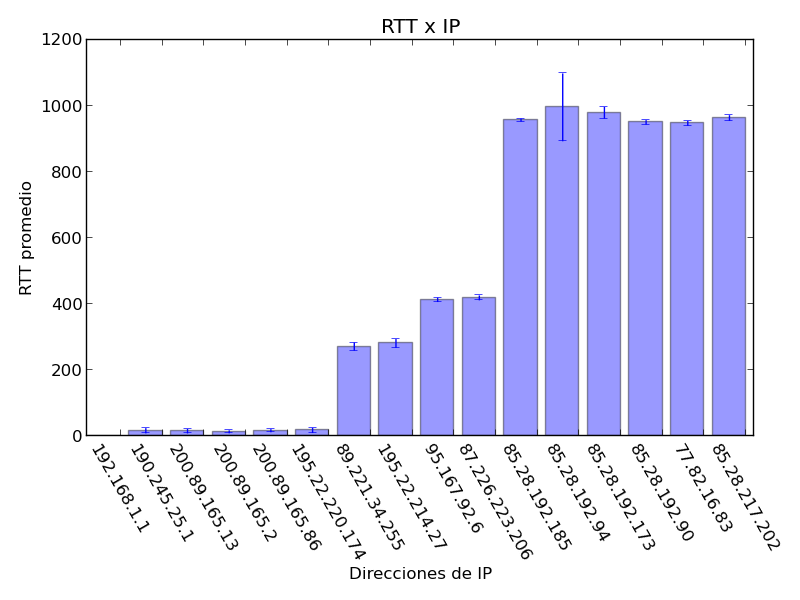
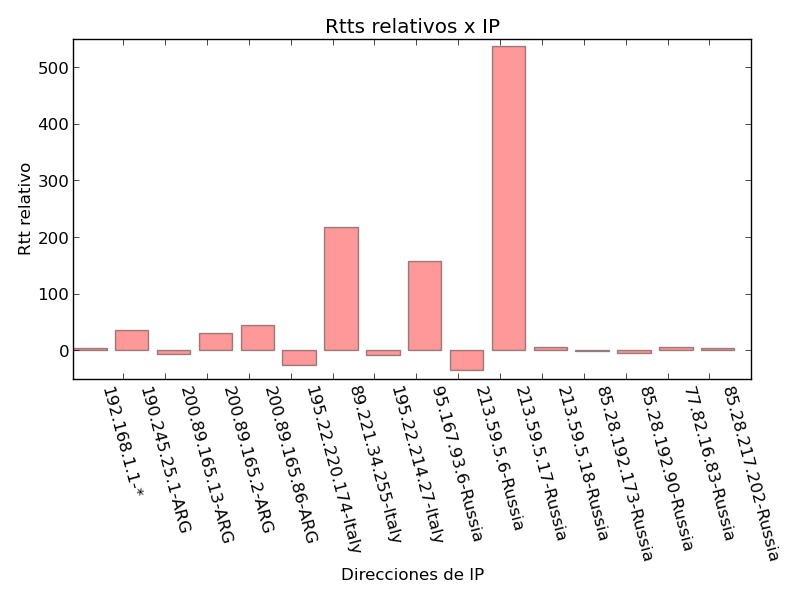
varios cambios

Changed region(s): [[0.0, 0.03, 0.9688, 0.99], [0.0, 0.45, 0.0312, 0.48]]

diff --git a/informe/resultados.tex b/informe/resultados.tex
@@ -1,59 +1,60 @@
 %http://www.tablesgenerator.com/latex_tables
 
-Para el análisis de las rutas nos centraremos principalmente en el RTT y ZRTT de cada Gateway atravesado. Es importante mencionar que no todos los Gateways emiten una respuesta a los paquetes ICMP emitidos ya que algunos podrían no tener implementada esa funcionalidad. Por esta razón se verá más adelante que los TTL presentados en las tablas no crecen de a uno.
+%Para el análisis de las rutas nos centraremos principalmente en el RTT y ZRTT de cada Gateway atravesado. Es importante mencionar que no todos los Gateways emiten una respuesta a los paquetes ICMP emitidos ya que algunos podrían no tener implementada esa funcionalidad. Por esta razón se verá más adelante que los TTL presentados en las tablas no crecen de a uno.
 
-Para calcular el RTT de cada Gateway envíamos numerosos paquetes al mismo para obtener un promedio. Determinamos que envíar 20 paquetes por cada salto era suficiente. También se calculó el desvío estandar:
-\newline
-\newline
-$RTT=\frac{\sum_{i=1}^{20}{RTT_i}}{20}$
-\newline
-$\sigma = \frac{\sum_{i=1}^{20}{(RTT_i-RTT)^2}}{20}$
-\newline
+%Para calcular el RTT de cada Gateway envíamos numerosos paquetes al mismo para obtener un promedio. Determinamos que envíar 20 paquetes por cada salto era suficiente. También se calculó el desvío estandar:
+%\newline
+%\newline
+%$RTT=\frac{\sum_{i=1}^{20}{RTT_i}}{20}$
+%\newline
+%$\sigma = \frac{\sum_{i=1}^{20}{(RTT_i-RTT)^2}}{20}$
+%\newline
 
-Además del RTT se obtuvo el ZRTT para cada Gateway. Este valor nos permite analizar si un determinado Gateway tiene un RTT mayor o menor a la media con respecto a la ruta global, dependiendo de si el ZRTT es positivo o negativo. Por lo tanto es una muy buena herramienta para analizar si se trata de un enlace submarino. Fue calculado de la siguiente manera:
-\newline
-\newline
-$ZRTT_i = \frac{RTT_i-\overline{RTT}}{SRTT}$
-en donde $RTT_i$ es el $RTT$ promedio calculado para cada salto, $\overline{RTT}$ es el $RTT$ promedio de la ruta global y $SRTT$ es el desvío estándar de la ruta global.
-\newline
+%Además del RTT se obtuvo el ZRTT para cada Gateway. Este valor nos permite analizar si un determinado Gateway tiene un RTT mayor o menor a la media con respecto a la ruta global, dependiendo de si el ZRTT es positivo o negativo. Por lo tanto es una muy buena herramienta para analizar si se trata de un enlace submarino. Fue calculado de la siguiente manera:
+%\newline
+%\newline
+%$ZRTT_i = \frac{RTT_i-\overline{RTT}}{SRTT}$
+%en donde $RTT_i$ es el $RTT$ promedio calculado para cada salto, $\overline{RTT}$ es el $RTT$ promedio de la ruta global y $SRTT$ es el desvío estándar de la ruta global.
+%\newline
 
-Para verificar si los valores de RTT y ZRTT se corresponden con la realidad decidimos utilizar una herramienta de geolocalización de modo que podamos determinar la ubicación aproximada de un Gateway. De esta forma nos era posible verificar, por ejemplo, si a valores grandes de ZRTT para determinado Gateway le correspondia una ubicación alejada de nuestro origen. También incluimos, para cada ruta analizada, un mapa en donde pueden verse los lugares por donde van pasando los paquetes.
+%Para verificar si los valores de RTT y ZRTT se corresponden con la realidad decidimos utilizar una herramienta de geolocalización de modo que podamos determinar la ubicación aproximada de un Gateway. De esta forma nos era posible verificar, por ejemplo, si a valores grandes de ZRTT para determinado Gateway le correspondia una ubicación alejada de nuestro origen. También incluimos, para cada ruta analizada, un mapa en donde pueden verse los lugares por donde van pasando los paquetes.
 
-A continuación, los resultados obtenidos:
+%A continuación, los resultados obtenidos:
 
 \subsection{Universidad de Australia}
-
 \begin{table}[H]
-\begin{tabular}{llllll}
-TTL & IP              & RTT(prom)        & Desviacion Estandar & ZRTT            & Location                \\
-1   & 192.168.1.1     & 1.58843994141 ms & 0.223531225414      & -1.71303307932  & *                       \\
-2   & 190.245.25.1    & 42.6805853844 ms & 19.8176943898       & -1.40040003076  & Argentina               \\
-6   & 200.89.165.49   & 29.913687706 ms  & 11.1214135157       & -1.49753183293  & Argentina               \\
-7   & 200.89.165.250  & 31.9589853287 ms & 13.8956215103       & -1.48197100922  & Argentina               \\
-8   & 64.209.94.97    & 25.0925540924 ms & 14.3493883219       & -1.53421148747  & United States           \\
-9   & 67.16.139.18    & 160.412049294 ms & 25.8748003019       & -0.504687575834 & United States           \\
-10  & 64.208.27.102   & 186.840640174 ms & 10.0093951121       & -0.303616279922 & United States           \\
-11  & 129.250.3.172   & 188.704538345 ms & 16.1066140831       & -0.289435560925 & United States:Englewood \\
-12  & 129.250.3.174   & 194.419503212 ms & 17.2554007517       & -0.245955551074 & United States:Englewood \\
-13  & 129.250.2.168   & 194.349682331 ms & 17.6758535646       & -0.246486755143 & United States:Englewood \\
-14  & 129.250.2.230   & 198.079133034 ms & 15.9807483604       & -0.218112730617 & United States:Englewood \\
-15  & 204.1.253.166   & 193.757641315 ms & 13.2299664539       & -0.250991060907 & United States:Englewood \\
-16  & 202.158.194.172 & 319.028556347 ms & 14.9289581536       & 0.702082273172  & Australia               \\
-17  & 113.197.15.68   & 318.016040325 ms & 13.9356377591       & 0.694378952569  & Australia               \\
-18  & 113.197.15.66   & 349.911153316 ms & 12.0683422641       & 0.937040081626  & Australia               \\
-19  & 113.197.15.65   & 352.194654942 ms & 14.7653444091       & 0.954413184605  & Australia               \\
-20  & 202.158.193.146 & 353.731060028 ms & 10.920976595        & 0.966102304286  & Australia               \\
-21  & 202.158.193.186 & 358.153343201 ms & 18.3398195658       & 0.999747465787  & Australia               \\
-22  & 137.111.189.4   & 361.728382111 ms & 13.9907095978       & 1.02694671034   & Australia               \\
-23  & 137.111.13.200  & 357.019650936 ms & 13.0007013927       & 0.991122224516  & Australia:Ryde          \\
-24  & 137.111.223.12  & 387.044274807 ms & 65.604054602        & 1.21955248999   & Australia               \\
-25  & 137.111.223.158 & 383.823335171 ms & 60.9346988401       & 1.19504726723   & Australia
+\centering
+\resizebox{\columnwidth}{!}{%
+\begin{tabular}{lllllll}
+TTL & IP              & RTT(prom)        & RTT Relativo      & ZRTT             & Fecha            & Lugar                   \\
+1   & 192.168.1.1     & 4.50524161844 ms & 4.50524161844 ms  & -1.91856265855   & 2014-07-14 22:17 & *                       \\
+2   & 190.245.25.1    & 111.661064625 ms & 107.155823006 ms  & -1.22126102739   & 2014-07-14 22:17 & Argentina               \\
+6   & 200.89.165.49   & 46.1213350296 ms & -65.5397295952 ms & -1.64775171236   & 2014-07-14 22:17 & Argentina               \\
+7   & 200.89.165.250  & 70.5515384674 ms & 24.4302034378 ms  & -1.48877555755   & 2014-07-14 22:17 & Argentina               \\
+8   & 64.209.94.97    & 106.063258648 ms & 35.5117201805 ms  & -1.25768797209   & 2014-07-14 22:17 & United States           \\
+9   & 67.17.106.162   & 233.08006525 ms  & 127.016806602 ms  & -0.431143749445  & 2014-07-14 22:17 & United States           \\
+10  & 64.208.27.102   & 239.12910223 ms  & 6.04903697968 ms  & -0.391780481687  & 2014-07-14 22:17 & United States           \\
+11  & 129.250.3.172   & 241.938555241 ms & 2.80945301056 ms  & -0.373498356535  & 2014-07-14 22:17 & United States:Englewood \\
+13  & 129.250.2.168   & 293.335330486 ms & 51.3967752457 ms  & -0.0390409821282 & 2014-07-14 22:17 & United States:Englewood \\
+14  & 129.250.2.230   & 294.001984596 ms & 0.666654109955 ms & -0.0347028231253 & 2014-07-14 22:17 & United States:Englewood \\
+15  & 204.1.253.166   & 273.278772831 ms & -20.7232117653 ms & -0.169556244632  & 2014-07-14 22:17 & United States:Englewood \\
+16  & 202.158.194.172 & 408.931684494 ms & 135.652911663 ms  & 0.713186231887   & 2014-07-14 22:17 & Australia               \\
+17  & 113.197.15.68   & 350.345873833 ms & -58.5858106613 ms & 0.331947208279   & 2014-07-14 22:17 & Australia               \\
+18  & 113.197.15.66   & 457.67967701 ms  & 107.333803177 ms  & 1.03040702067    & 2014-07-14 22:17 & Australia               \\
+19  & 113.197.15.65   & 477.138209343 ms & 19.4585323334 ms  & 1.15703071647    & 2014-07-14 22:17 & Australia               \\
+20  & 202.158.193.146 & 467.447268963 ms & -9.6909403801 ms  & 1.0939682683     & 2014-07-14 22:17 & Australia               \\
+21  & 202.158.193.186 & 453.81141901 ms  & -13.6358499527 ms & 1.00523486915    & 2014-07-14 22:17 & Australia               \\
+22  & 137.111.189.4   & 379.369139671 ms & -74.4422793388 ms & 0.520812078549   & 2014-07-14 22:17 & Australia               \\
+23  & 137.111.13.200  & 440.604770184 ms & 61.2356305122 ms  & 0.9192944367     & 2014-07-14 22:17 & Australia:Ryde          \\
+24  & 137.111.223.12  & 489.401388168 ms & 48.7966179848 ms  & 1.23683164897    & 2014-07-14 22:17 & Australia               \\
+25  & 137.111.223.158 & 447.635984421 ms & -41.7654037476 ms & 0.965049086509   & 2014-07-14 22:17 & Australia              
 \end{tabular}
+}
 \caption{Ruta hacia la universidad de Australia}
 \label{my-label}
 \end{table}
 
-Notar que a medida que los TTL's se van incrementando también lo hacen el RTT y ZRTT. Esto era esperado que sucediera ya que los Gateways se encuentran cada vez más lejos del origen. Este comportamiento podrá verse mejor en los siguientes gráficos.
+%Notar que a medida que los TTL's se van incrementando también lo hacen el RTT y ZRTT. Esto era esperado que sucediera ya que los Gateways se encuentran cada vez más lejos del origen. Este comportamiento podrá verse mejor en los siguientes gráficos.
 
 \begin{figure}[H]
 	\begin{center}
@@ -63,17 +64,17 @@ Notar que a medida que los TTL's se van incrementando también lo hacen el RTT y
 	\end{center}
 \end{figure}
 
-Aquí puede observarse claramente que a partir del Gateway que se encuentra localizado en Australia, el ZRTT se torna positivo. Esto indica, como mencionamos anteriormente, que el RTT para estos Gateways es mayor a la media de la ruta global lo cual tiene sentido ya que atraviesan un enlace submarino.
+%Aquí puede observarse claramente que a partir del Gateway que se encuentra localizado en Australia, el ZRTT se torna positivo. Esto indica, como mencionamos anteriormente, que el RTT para estos Gateways es mayor a la media de la ruta global lo cual tiene sentido ya que atraviesan un enlace submarino.
 
 \begin{figure}[H]
 	\begin{center}
 		  \includegraphics[scale=0.5]{../graficos_informe/mq_rtt.png}
-		  \caption{RTT promedio para cada Gateway con el respectivo desvío estándar}
+		  \caption{RTT relativo para cada Gateway}
 		  \label{fig:contra1}
 	\end{center}
 \end{figure}
 
-Podemos ver en este gráfico que los RTT's van creciendo a medida que vamos hacia la derecha del gráfico.
+%Podemos ver en este gráfico que los RTT's van creciendo a medida que vamos hacia la derecha del gráfico.
 
 \begin{figure}[H]
 	\begin{center}
@@ -86,25 +87,28 @@ Podemos ver en este gráfico que los RTT's van creciendo a medida que vamos haci
 \subsection{Universidad de Kamchatka}
 
 \begin{table}[H]
-\begin{tabular}{llllll}
-TTL & IP             & RTT(prom)        & Desviacion Estandar & ZRTT             & Location                     \\
-1   & 192.168.1.1    & 1.80819829305 ms & 0.731853407234      & -1.08128839049   & *                            \\
-2   & 190.245.25.1   & 17.3818061226 ms & 7.90250397557       & -1.04406066319   & Argentina                    \\
-6   & 200.89.165.13  & 15.9910202026 ms & 6.77291322606       & -1.04738524921   & Argentina                    \\
-7   & 200.89.165.2   & 14.0871167183 ms & 4.38023412359       & -1.05193641042   & Argentina                    \\
-8   & 200.89.165.86  & 17.4869894981 ms & 4.67752646672       & -1.04380922896   & Argentina                    \\
-9   & 195.22.220.174 & 18.2276844978 ms & 7.78620781179       & -1.04203864428   & Italy                        \\
-10  & 89.221.34.255  & 272.055315971 ms & 12.2568505401       & -0.435279699866  & Italy                        \\
-11  & 195.22.214.27  & 281.684625149 ms & 13.1891077384       & -0.412261443588  & Italy                        \\
-12  & 95.167.92.6    & 413.393509388 ms & 6.4724957906        & -0.0974196625449 & Russian Federation           \\
-13  & 87.226.223.206 & 419.344055653 ms & 7.38855122796       & -0.0831952569936 & Russian Federation           \\
-14  & 85.28.192.185  & 957.480251789 ms & 4.33259948094       & 1.20318538023    & Russian Federation           \\
-15  & 85.28.192.94   & 995.981001854 ms & 102.629633848       & 1.29521899506    & Russian Federation           \\
-16  & 85.28.192.173  & 979.524040222 ms & 17.6097548431       & 1.2558796662     & Russian Federation           \\
-17  & 85.28.192.90   & 950.519025326 ms & 6.6846143214        & 1.1865450074     & Russian Federation           \\
-18  & 77.82.16.83    & 947.636032104 ms & 7.30217338762       & 1.17965339393    & Russian Federation:Kamchatka \\
-19  & 85.28.217.202  & 963.758111 ms    & 8.51265755857       & 1.21819220673    & Russian Federation
+\centering
+\resizebox{\columnwidth}{!}{%
+\begin{tabular}{lllllll}
+TTL & IP             & RTT(prom)        & RTT Relativo      & ZRTT             & Fecha            & Lugar                        \\
+1   & 192.168.1.1    & 4.09276783466 ms & 4.09276783466 ms  & -1.1768188849    & 2014-07-14 22:26 & *                            \\
+2   & 190.245.25.1   & 40.4574036598 ms & 36.3646358252 ms  & -1.08492973416   & 2014-07-14 22:26 & Argentina                    \\
+6   & 200.89.165.13  & 34.34227705 ms   & -6.1151266098 ms  & -1.1003819387    & 2014-07-14 22:26 & Argentina                    \\
+7   & 200.89.165.2   & 65.1411771774 ms & 30.7989001274 ms  & -1.0225567464    & 2014-07-14 22:26 & Argentina                    \\
+8   & 200.89.165.86  & 109.000182152 ms & 43.8590049744 ms  & -0.911730207713  & 2014-07-14 22:26 & Argentina                    \\
+9   & 195.22.220.174 & 82.8942418098 ms & -26.1059403419 ms & -0.977696843503  & 2014-07-14 22:26 & Italy                        \\
+10  & 89.221.34.255  & 300.520706177 ms & 217.626464367 ms  & -0.4277804059    & 2014-07-14 22:26 & Italy                        \\
+11  & 195.22.214.27  & 292.13514328 ms  & -8.38556289673 ms & -0.448969735465  & 2014-07-14 22:26 & Italy                        \\
+12  & 95.167.93.6    & 449.580430984 ms & 157.445287704 ms  & -0.0511240415433 & 2014-07-14 22:26 & Russian Federation           \\
+13  & 213.59.5.6     & 413.960599899 ms & -35.6198310852 ms & -0.141131158441  & 2014-07-14 22:26 & Russian Federation           \\
+14  & 213.59.5.17    & 950.969684124 ms & 537.009084225 ms  & 1.21582753413    & 2014-07-14 22:26 & Russian Federation           \\
+15  & 213.59.5.18    & 956.076347828 ms & 5.10666370392 ms  & 1.22873147171    & 2014-07-14 22:26 & Russian Federation           \\
+16  & 85.28.192.173  & 954.074466228 ms & -2.00188159943 ms & 1.22367295275    & 2014-07-14 22:26 & Russian Federation           \\
+17  & 85.28.192.90   & 949.170184135 ms & -4.90428209305 ms & 1.21128040966    & 2014-07-14 22:26 & Russian Federation           \\
+18  & 77.82.16.83    & 955.445873737 ms & 6.2756896019 ms   & 1.22713833796    & 2014-07-14 22:26 & Russian Federation:Kamchatka \\
+19  & 85.28.217.202  & 959.138429165 ms & 3.69255542755 ms  & 1.23646899052    & 2014-07-14 22:26 & Russian Federation          
 \end{tabular}
+}
 \caption{Ruta hacia la universidad de Kamchatka}
 \label{my-label}
 \end{table}
@@ -117,17 +121,17 @@ TTL & IP             & RTT(prom)        & Desviacion Estandar & ZRTT            
 	\end{center}
 \end{figure}
 
-En este caso notamos que el ZRTT se torna positivo recién cuando el paquete atraviesa Rusia y no Italia. Sin embargo, notamos un aumento progresivo del ZScore.
+%En este caso notamos que el ZRTT se torna positivo recién cuando el paquete atraviesa Rusia y no Italia. Sin embargo, notamos un aumento progresivo del ZScore.
 
 \begin{figure}[H]
 	\begin{center}
 		  \includegraphics[scale=0.5]{../graficos_informe/kamgu_rtt.png}
-		  \caption{RTT promedio para cada Gateway con el respectivo desvío estándar}
+		  \caption{RTT relativo para cada Gateway}
 		  \label{fig:contra1}
 	\end{center}
 \end{figure}
 
-Al igual que antes, puede observarse un crecimiento hacia la derecha. Notar la gran diferencia que hay entre los RTT's de un Gateway argentino y uno ruso.
+%Al igual que antes, puede observarse un crecimiento hacia la derecha. Notar la gran diferencia que hay entre los RTT's de un Gateway argentino y uno ruso.
 
 \begin{figure}[H]
 	\begin{center}
@@ -137,46 +141,52 @@ Al igual que antes, puede observarse un crecimiento hacia la derecha. Notar la g
 	\end{center}
 \end{figure}
 
-\subsection{Universidad de Kazakhstan}
+\subsection{Universidad de Japón}
 
 \begin{table}[H]
-\begin{tabular}{llllll}
-TTL & IP             & RTT(prom)        & Desviacion Estandar & ZRTT           & Location           \\
-1   & 192.168.1.1    & 1.54423713684 ms & 0.117139102366      & -1.34487283163 & *                  \\
-2   & 190.245.25.1   & 23.6673355103 ms & 10.7648707035       & -1.22915564926 & Argentina          \\
-6   & 200.89.164.9   & 18.370950222 ms  & 6.10332976384       & -1.25685894705 & Argentina          \\
-7   & 200.89.165.6   & 25.0235199928 ms & 8.24188106383       & -1.22206198433 & Argentina          \\
-8   & 200.89.165.150 & 19.3508267403 ms & 6.89054886722       & -1.25173360033 & Argentina          \\
-9   & 195.22.220.130 & 19.2337751389 ms & 6.29820177568       & -1.25234585098 & Italy              \\
-10  & 195.22.214.1   & 309.558272362 ms & 9.78711920483       & 0.266226829299 & Italy              \\
-11  & 195.22.214.27  & 320.834982395 ms & 9.16464028708       & 0.325210841823 & Italy              \\
-12  & 95.167.93.73   & 356.013548374 ms & 12.0396019043       & 0.509216014442 & Russian Federation \\
-13  & 92.50.241.118  & 472.29436636 ms  & 25.7385856881       & 1.11743500775  & Russian Federation \\
-14  & 92.47.151.161  & 416.570115089 ms & 8.55935045451       & 0.825963477041 & Kazakhstan         \\
-15  & 92.47.144.220  & 423.40887785 ms  & 5.34861640045       & 0.86173434169  & Kazakhstan         \\
-16  & 92.47.144.241  & 449.230837822 ms & 5.53464778354       & 0.996798806937 & Kazakhstan         \\
-17  & 92.47.144.222  & 409.93347168 ms  & 7.04609309313       & 0.791249818816 & Kazakhstan         \\
-19  & 212.154.158.10 & 425.195792142 ms & 9.11159408078       & 0.87108098399  & Kazakhstan:Almaty  \\
-20  & 212.154.158.3  & 448.334944248 ms & 6.16362142715       & 0.992112741797 & Kazakhstan:Almaty
+\centering
+\resizebox{\columnwidth}{!}{%
+\begin{tabular}{lllllll}
+TTL & IP              & RTT(prom)        & RTT Relativo      & ZRTT            & Fecha            & Lugar               \\
+1   & 192.168.1.1     & 4.37887977151 ms & 4.37887977151 ms  & -2.267360091    & 2014-07-14 22:54 & *                   \\
+2   & 190.245.25.1    & 115.919947624 ms & 111.541067853 ms  & -1.560135251    & 2014-07-14 22:54 & Argentina           \\
+6   & 200.89.164.141  & 128.567194939 ms & 12.6472473145 ms  & -1.47994552689  & 2014-07-14 22:54 & Argentina           \\
+7   & 200.89.165.150  & 161.224138737 ms & 32.6569437981 ms  & -1.27288455556  & 2014-07-14 22:54 & Argentina           \\
+8   & 195.22.220.130  & 166.559362411 ms & 5.33522367477 ms  & -1.23905663206  & 2014-07-14 22:54 & Italy               \\
+9   & 89.221.40.131   & 320.966267586 ms & 154.406905174 ms  & -0.260041450402 & 2014-07-14 22:54 & Italy               \\
+10  & 89.221.35.186   & 342.196452618 ms & 21.2301850319 ms  & -0.12543170978  & 2014-07-14 22:54 & Italy               \\
+11  & 61.14.157.93    & 439.377403259 ms & 97.1809506416 ms  & 0.4907429745    & 2014-07-14 22:54 & Japan               \\
+12  & 61.14.158.51    & 464.534175396 ms & 25.1567721367 ms  & 0.650249194871  & 2014-07-14 22:54 & Japan               \\
+13  & 61.14.158.61    & 450.034415722 ms & -14.4997596741 ms & 0.558313637744  & 2014-07-14 22:54 & Japan               \\
+14  & 203.192.150.2   & 459.593868256 ms & 9.55945253372 ms  & 0.618925235058  & 2014-07-14 22:54 & Asia/Pacific Region \\
+15  & 180.145.255.130 & 467.424154282 ms & 7.830286026 ms    & 0.668573072294  & 2014-07-14 22:54 & Japan:Osaka         \\
+16  & 180.145.253.94  & 488.308882713 ms & 20.8847284317 ms  & 0.800992449371  & 2014-07-14 22:54 & Japan:Osaka         \\
+17  & 218.228.247.78  & 453.545117378 ms & -34.7637653351 ms & 0.580573200657  & 2014-07-14 22:54 & Japan               \\
+18  & 124.248.144.41  & 450.984311104 ms & -2.56080627441 ms & 0.564336438336  & 2014-07-14 22:54 & Japan               \\
+19  & 124.248.144.205 & 552.246752907 ms & 101.262441803 ms  & 1.20638976973   & 2014-07-14 22:54 & Japan               \\
+20  & 210.134.52.222  & 485.796236992 ms & -66.4505159154 ms & 0.785061048475  & 2014-07-14 22:54 & Japan               \\
+21  & 153.127.246.13  & 458.483612537 ms & -27.3126244545 ms & 0.611885671624  & 2014-07-14 22:54 & Japan:Tokyo         \\
+22  & 153.127.247.190 & 467.461919785 ms & 8.97830724716 ms  & 0.668812524025  & 2014-07-14 22:54 & Japan:Tokyo        
 \end{tabular}
-\caption{Ruta hacia la universidad de Kazakhstan}
+}
+\caption{Ruta hacia la universidad de Japón}
 \label{my-label}
 \end{table}
 
 \begin{figure}[H]
 	\begin{center}
-		  \includegraphics[scale=0.5]{../graficos_informe/aipet_zscore.png}
+		  \includegraphics[scale=0.5]{../graficos_informe/jsc_zscore.png}
 		  \caption{ZRTT para cada Gateway}
 		  \label{fig:contra1}
 	\end{center}
 \end{figure}
 
-Al igual que para las universidades anteriores puede observarse la gran diferencia del ZRTT antes y luego de pasar el enlace submarino.
+%Al igual que para las universidades anteriores puede observarse la gran diferencia del ZRTT antes y luego de pasar el enlace submarino.
 
 \begin{figure}[H]
 	\begin{center}
-		  \includegraphics[scale=0.5]{../graficos_informe/aipet_rtt.png}
-		  \caption{RTT promedio para cada Gateway con el respectivo desvío estándar}
+		  \includegraphics[scale=0.5]{../graficos_informe/jsc_rtt.png}
+		  \caption{RTT relativo para cada Gateway}
 		  \label{fig:contra1}
 	\end{center}
 \end{figure}
@@ -184,14 +194,14 @@ Al igual que para las universidades anteriores puede observarse la gran diferenc
 \begin{figure}[H]
 	\begin{center}
 		  \includegraphics[scale=0.4]{../mapas/mapa_aipet.png}
-		  \caption{Mapa de la ruta atravesada para llegar a la universidad de Kazakhstan}
+		  \caption{Mapa de la ruta atravesada para llegar a la universidad de Japón}
 		  \label{fig:contra1}
 	\end{center}
 \end{figure}
 
 \subsection{Determinación del umbral}
 
-Teniendo en cuenta los resultados obtenidos para cada facultad pudimos observar que el valor de ZRTT calculado para cada Gateway definía bastante bien si se trataba de un enlace submarino o no. En la totalidad de los casos evaluados, un valor de ZRTT positivo nos indicaba la presencia de un enlace submarino por lo cual con determinar $u>0$ nos alcanza para detectarlos.
+%Teniendo en cuenta los resultados obtenidos para cada facultad pudimos observar que el valor de ZRTT calculado para cada Gateway definía bastante bien si se trataba de un enlace submarino o no. En la totalidad de los casos evaluados, un valor de ZRTT positivo nos indicaba la presencia de un enlace submarino por lo cual con determinar $u>0$ nos alcanza para detectarlos.
 
 
 \subsection{Ping vs RTT's calculados}

diff --git a/graficador.py b/graficador.py
@@ -2,39 +2,41 @@ import sys
 import numpy as np
 import matplotlib.pyplot as plt
 
-def graficador_1(ips,rtts,sds):
+def graficador(ips,rtts):
+	print len(ips)
+	print len(rtts)
 
 	n = len(ips)
 	index = np.arange(n)
 
-	bar_width = 0.4
+	bar_width = 0.8
 	opacity = 0.4
 
-	rects1 = plt.bar(index, rtts, alpha=opacity, color='blue', yerr= sds)
+	rects1 = plt.bar(index, rtts, alpha=opacity, color='red')
 
 	plt.xlabel('Direcciones de IP')
-	plt.ylabel('RTT promedio')
+	plt.ylabel('Rtt relativo')
 
-	plt.ylim([0,700])
-	plt.title('RTT x IP')
+	plt.ylim([-70,160])
+	plt.title('Rtts relativos x IP')
 	plt.xticks(index+bar_width+0.4, ips)
-	plt.xticks(rotation = -60)
+	plt.xticks(rotation = -75)
 	plt.legend()
 	plt.tight_layout()
-	plt.savefig("graficos/rtt")	
+	plt.savefig("graficos/rttsRelativos")	
 	plt.show()
 
 if __name__ == "__main__":
 	ips = []
 	rtts = []
-	sds = []
 	with open(sys.argv[1]) as f:
+		i = 0
 		for line in f:
-			line = line.split()
-			ips.append(line[0])
-			rtts.append(line[1])
-			sds.append(line[3])
+			if i!=0:
+				line = line.split()
+				ips.append(line[0])
+				rtts.append(line[1])
+			i = i+1
 
-	rtts = [float(r) for r in rtts]		
-	sds = [float(s) for s in sds]
-	graficador_1(ips,rtts,sds)		
+		rtts = [float(z) for z in rtts]
+		graficador(ips,rtts)

diff --git a/graficador_2.py b/graficador_2.py
@@ -17,7 +17,7 @@ def graficador(ips,zscores):
 	plt.xlabel('Direcciones de IP')
 	plt.ylabel('zrtt')
 
-	plt.ylim([-3,3])
+	plt.ylim([-2,1.6])
 	plt.title('zscore x IP')
 	plt.xticks(index+bar_width+0.4, ips)
 	plt.xticks(rotation = -75)
@@ -30,10 +30,13 @@ if __name__ == "__main__":
 	ips = []
 	zscores = []
 	with open(sys.argv[1]) as f:
+		i = 0
 		for line in f:
-			line = line.split()
-			ips.append(line[0])
-			zscores.append(line[1])
+			if i!=0:	
+				line = line.split()
+				ips.append(line[0])
+				zscores.append(line[1])
+			i = i+1
 
 		zscores = [float(z) for z in zscores]
 		graficador(ips,zscores)

diff --git a/parseCsv.py b/parseCsv.py
@@ -8,7 +8,7 @@ def csv_reader_zscore(file_obj, file):
     """
     reader = csv.reader(file_obj)
     for row in reader:
-    	print >>file, row[1]+"-"+row[5]+" "+row[4]
+    	print >>file, row[1]+"-"+row[6]+" "+row[4]
 
 def csv_reader_rtt(file_obj, file):
 	"""
@@ -16,7 +16,7 @@ def csv_reader_rtt(file_obj, file):
 	"""
 	reader = csv.reader(file_obj)
 	for row in reader:
-		print >>file, row[1]+" "+row[2]+" "+row[3]
+		print >>file, row[1]+"-"+row[6]+" "+row[3]
 	        
 
  
